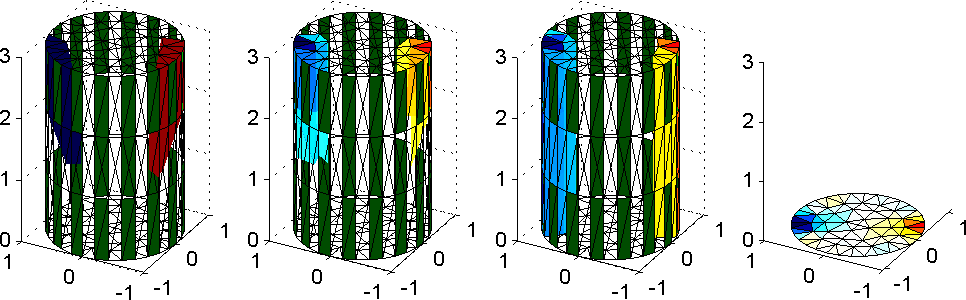
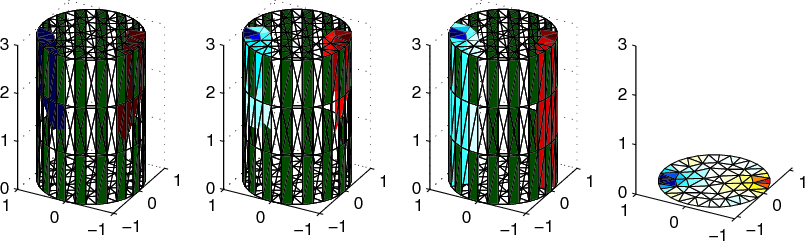
two 1/2 d
git-svn-id: svn://svn.code.sf.net/p/eidors3d/code/trunk@2750 82006732-fb7e-4a22-9f28-86a212cce563

diff --git a/htdocs/tutorial/dual_model/two_and_half_d01.m b/htdocs/tutorial/dual_model/two_and_half_d01.m
@@ -19,7 +19,7 @@ subplot(122);
 show_fem(c_mdl); title('coarse (2d) model');
 axis square
 
-print -r75 -dpng two_and_half_d01a.png
+print_convert two_and_half_d01a.png '-density 75'
 
 % Simulate data - inhomogeneous
 vi= fwd_solve(inhomg_img);

diff --git a/htdocs/tutorial/dual_model/two_and_half_d03.m b/htdocs/tutorial/dual_model/two_and_half_d03.m
@@ -15,4 +15,4 @@ img3.fwd_model= c_mdl;
 show_fem(img3);
 set(gca,'ZLim',[0,3]); axis equal; view(-62,28)
 
-print -r150 -dpng two_and_half_d03a.png
+print_convert two_and_half_d03a.png
